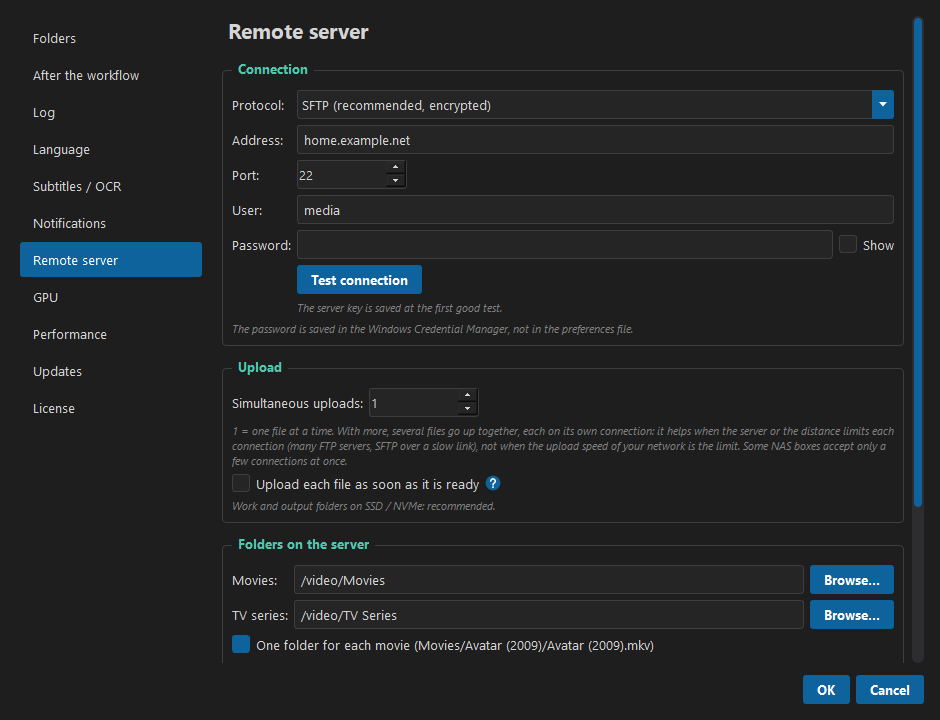
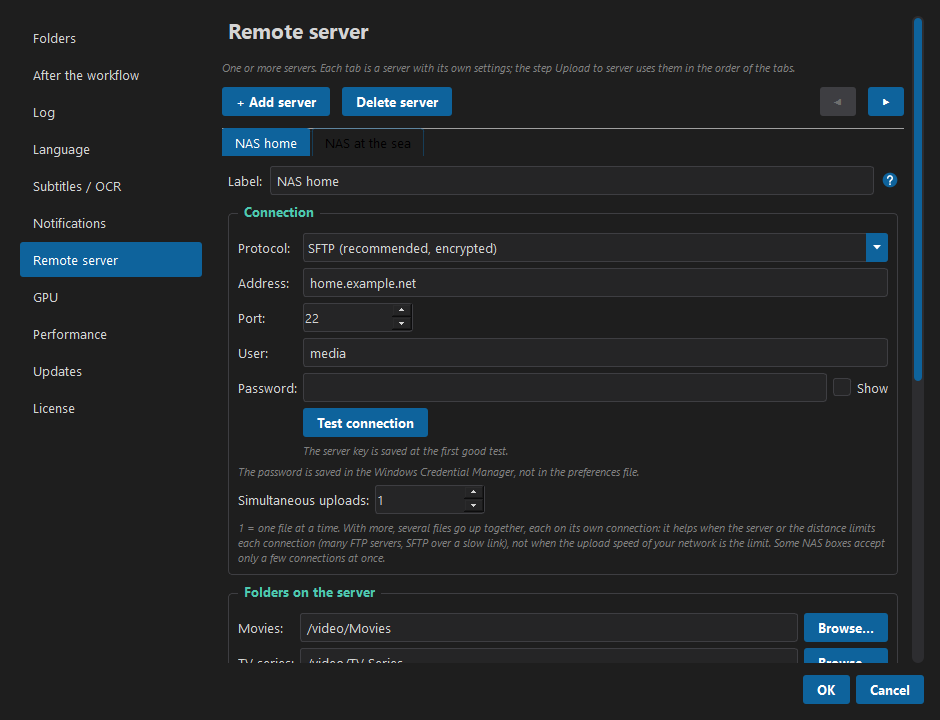
Sequentia Nexus 0.58.0

Changed region(s): [[0.216, 0.0917, 0.9872, 0.9472], [0.9255, 0.2444, 0.9564, 0.275]]

diff --git a/docs/HOW_TO_USE.md b/docs/HOW_TO_USE.md
@@ -1,6 +1,6 @@
 # How to use Sequentia Nexus
 
-This guide covers version **0.53.1**. Sequentia Nexus is in beta: some parts may still change.
+This guide covers version **0.58.0**. Sequentia Nexus is in beta: some parts may still change.
 
 **Contents**
 
@@ -76,12 +76,12 @@ A program installed here is found right away: you don't need to restart the app.
 | **Parameters** (right) | The settings of the step selected in the workflow. |
 | **Log** (bottom) | What the app is doing, live. **📋 Copy log** copies it all. |
 | **▶ Start workflow / ❚❚ Pause / ■ Stop** | Start, pause and stop the run. The bar next to them shows the progress; **When done** on the right puts the PC to sleep, hibernates it or shuts it down at the end (see [Run a workflow](#5-run-a-workflow)). |
-| **Queue** | Adds the current workflow to the queue, or shows the queue: several workflows with their own folders, run one after the other (see [The queue](#the-queue)). |
+| **Queue** | Opens the queue window: workflows with their own files to process, run after the main workflow (see [The queue](#the-queue)). |
 
 The menus:
 
 - **File**: *New workflow*, *Open preset...*, *Save preset as...*, *Delete preset...*,
-  *Queue...*, *Exit*.
+  *Queue...*, *Open queue...*, *Load all queues*, *Delete queue...*, *Exit*.
 - **Settings**: *Preferences...* (also **Ctrl+,**), *System Requirements...*, *Theme* (Dark,
   Light, System). The program starts in the language of Windows (English when it is not one of
   its languages); the language is chosen in **Preferences → Language**. That page always says
@@ -208,6 +208,7 @@ While it runs:
 - **Nothing can be changed**: the catalog, the workflow list, the parameters (shown in grey),
   the presets and the Preferences are locked, so it is clear that the run uses the settings it
   started with. The log, the theme, About, **Pause**, **Stop** and **When done** stay usable.
+- **Stop** works also while the final files are being moved to the output folder: the move stops at once, the files already moved are complete, and the others stay in the work folder (the log says where).
 - The **workflow list follows the run**: no row is highlighted; every step that is working
   right now shows a **blue arrow that turns** on its right, also two at once (for example the
   audio converted during the encode, or the movies uploaded while the TV series are processed).
@@ -288,42 +289,88 @@ step before it.
 
 ### The queue
 
-The **queue** runs several workflows one after the other, each with **its own folders**: for
-example a TV series in one folder with one preset, then a film in another folder with another
-preset, started in the evening with *When done → Shut down*.
+A **queue** is a workflow with **its own files to process**: for example the films of a download
+folder with one preset and a TV series from another disk with another preset, started in the
+evening with *When done → Shut down*. **▶ Start workflow** runs the main workflow first (the one in
+the workflow panel, when the input folders of the Preferences have files), then the ticked queues,
+one after the other. The button says what it will do: `▶ Start workflow + 2 queues`, or
+`▶ Start 2 queues` when the input folders of the Preferences are empty.
 
-- **Queue → Add current workflow** (the button next to **Stop**) adds the workflow shown now,
-  with its steps, parameters and file choices, and the folders of *Preferences → Folders* at that
-  moment (folder mode, input, work and output). Change the folders or the preset and add the next
-  job: every job keeps its own.
-- **Queue → Show queue...** (also *File → Queue...*, `Ctrl+Shift+Q`) opens the queue window: the
-  jobs in order, their input folders (the whole paths in the tooltip), their state (*Waiting*,
-  *Running*, ✓ *Done*, ✗ *With errors*, ■ *Stopped*, – *Skipped*) and their result
-  (`2 videos processed in 00:12:40`).
-  - **Drag** a job to change the order.
-  - **Folders...** (or a double click) changes the folders of that job only.
-  - **Load into workflow** shows a job in the workflow panel: change its steps or parameters, then
-    **Use current workflow** puts them back in the job (its folders stay).
-  - **Run again** puts a finished job back to waiting; **Open log** shows the log of a finished
-    job; **Remove** and **Remove finished** clean the list.
-  - **Save queue...** / **Open queue...**: a queue file (`.snxqueue`) to keep or move to another
-    PC; opening one adds its jobs at the end.
-- **▶ Start queue**: first the **checks of every waiting job**, one after the other, with the
-  usual pre-flight window for each job (its name in the title): all the questions (warnings,
-  tracks without a language) are asked now, so the queue can then run unattended. A job that does
-  not pass the checks, or that you cancel, is *Skipped*. Then the jobs run one at a time: the
-  workflow panel shows the running job, the log shows its log.
-- A job that ends **with errors** is marked ✗ and the queue goes on with the next one. Every job
-  keeps its own log in the log folder (also with *Preferences → Log* off). **Stop** stops the whole
-  queue: the jobs not started yet stay *Waiting*. **Pause** pauses the running job.
-- At the end the last line of the log sums up the queue
-  (`Queue finished: 3 jobs done, 1 with errors, in 02:10:00`); the notifications and **When done**
-  come once, for the whole queue.
-- The queue is kept when the program closes; a job that was running then is *Waiting* again.
-  Jobs added while the queue runs wait for the next start of the queue.
+The **Queue** button next to **Stop** (also *File → Queue...*, `Ctrl+Shift+Q`) opens the queue
+window. The program starts with no queue loaded.
 
-One job at a time is on purpose: a job already uses every video card (an encode on two cards) and
-the CPU (audio converted in parallel), and two jobs together would only slow each other down.
+- **+ Add new queue** adds a queue: a box that opens and closes with a click on its title, like the
+  sections of the catalog. In the box:
+  - the **tick box** next to the name: ticked, the queue runs with Start; unticked, it stays in the
+    list and waits;
+  - **Name** (optional: without one the queue is *Queue 1*, *Queue 2*...);
+  - **Workflow**: **Open preset...** copies a preset into the queue, **Create workflow...** starts a
+    new empty one, **Edit workflow...** changes the one of the queue. Both open the **workflow
+    editor**: the script catalog, the workflow and the parameters, as in the main window, with
+    **Save changes** at the bottom. In the editor the *Movies* and *TV series* boxes are always
+    there, and the lists of the steps that choose file by file (Aspect ratio per file, Sync per
+    subtitle, the rules of Correct SRT) show the files of this queue. **Save as preset...** saves
+    the workflow of the queue as a preset (the same name replaces it, a new name makes a new
+    preset);
+  - **Files**: the folders and single files to process, from any folder or disk: **Add files...**,
+    **Add folder...**, or drop them **anywhere on the queue window** (on a queue: into that queue;
+    elsewhere: into the open one). A folder means all its videos and discs, a file only that file; ×
+    takes one off. Under the list, how many videos there are (`5 videos: 2 films, 3 episodes`);
+  - **Output**: *As in the Preferences* (the output folders of *Preferences → Folders*, for films or
+    for series) or *This folder*. The work folder is always the one of the Preferences;
+  - **Upload**, only when the workflow has **Upload to server**: with several servers, the servers
+    of this queue; the **folders on the server** for the films and the series of this queue (empty:
+    the ones of the server).
+- **Films and episodes** are told apart from the name: `S01E01` or `1x01` is an episode, everything
+  else a film (a disc with `S02` in its name is a season). So a queue can mix them: each file gets
+  the *Movies* or *TV series* values of the steps (or the single box, if the preset was made with
+  one folder) and goes to the films or the series folder.
+- **Save queue** (in the box) or **Save all queues** (at the bottom) saves the queues by name, like
+  the presets, and closes their boxes. **The files to process are never saved**: they change every
+  time. A title with `*` has changes not saved yet; × in the title takes the queue off the list (its
+  saved file stays).
+- *File → Open queue...* loads a saved queue (also a `.snxqueue` file of the earlier versions: each
+  of its jobs becomes a queue, without its folders), *File → Load all queues* loads them all, *File
+  → Delete queue...* deletes a saved one.
+- **Drag** a queue by its title to change the order.
+- At the start come the **checks of everything**: the main workflow, then every ticked queue, with
+  the usual pre-flight window (its name in the title). All the questions are asked now, so
+  everything can then run unattended. A queue that does not pass the checks, or that you cancel, is
+  skipped. Then they run one at a time: the workflow panel shows the one running and the log its
+  log; at the end the main workflow comes back in the panel.
+- The title of each queue shows its state like the workflow list: the turning arrow while it runs,
+  then ✓, ✗ (with errors), ■ (stopped) or – (skipped), with the result (`2 films processed in
+  00:12:40`) and **Open log**. A queue that is running or waiting to run cannot be changed.
+- A queue that ends **with errors** does not stop the others. Each keeps its own log in the log
+  folder (also with *Preferences → Log* off). **Stop** stops everything: the queues not started yet
+  are marked *not started*. **Pause** pauses the one running.
+- At the end the last line of the log sums everything up (`Everything finished: 3 workflows done, 1
+  with errors, in 02:10:00`); the notifications and **When done** come once, for everything.
+
+**A queue and its preset are two separate things.** The queue keeps its own copy of the workflow,
+and the line under its steps always says which one it is: *Copy of the preset "Movies 1080p"* while
+nothing was changed, *Changed copy of the preset "Movies 1080p"* after **Edit workflow...**
+(the **?** next to *Workflow* explains it too). An example:
+
+1. **Open preset...** → *Movies 1080p* (films at 4000 kbit/s): the queue gets a copy of it.
+2. **Edit workflow...**: the bitrate of the films goes to 6000, then **Save changes**. The line now says *Changed copy*.
+3. **Save queue**: the queue remembers 6000; opened again next week, it still has 6000.
+4. *Movies 1080p* opened in the main window, or in another queue, still has 4000: the preset file was not touched.
+5. To have 6000 in the preset too: **Save as preset...** with the same name (it is replaced) or with a new name (a new preset).
+
+![The Queue window](images/queue.png)
+
+![The workflow editor of a queue](images/queue_editor.png)
+
+**Files added later.** When a step has choices made file by file (Aspect ratio per file, Sync per
+subtitle, a rule of Correct SRT on some subtitles) and files are added to the queue after those
+choices, the program asks to make the choices for the new files too: **Make the choices...** opens
+the workflow editor, **Later** leaves it for now. At the start it asks again for the files still
+without choices: **Go on like this** (the new files get the common value of the step, or stay out
+of a step where only some files were chosen) or **Skip this queue**.
+
+One workflow at a time is on purpose: one already uses every video card (an encode on two cards)
+and the CPU (audio converted in parallel), and two together would only slow each other down.
 
 ### Where the files end up
 
@@ -490,6 +537,8 @@ has **Convert image subtitles to SRT**.
 
 > AAC audio is saved as `.mka`, not as a raw `.aac`: some AAC 5.1 tracks lose their channel
 > layout in a raw file and become silent after merging.
+
+> Converted audio keeps its exact timing. Every encoder adds a few milliseconds at the start of the track (AAC 21 ms, MP3 up to 47 ms, AC3 and E-AC3 5 ms, DTS 11 ms): AAC and MP3 are saved as `.mka`, which tells the player to skip them, and for AC3, E-AC3 and DTS the same amount is taken off the start, so every sound stays on its frame.
 
 ### Audio
 
@@ -856,18 +905,16 @@ the encode if *Upload each file as soon as it is ready* is on in
   `1x01` in the name means an episode);
 - every file is uploaded as `name.mkv.part` and renamed only when it is complete, so a media
   server (Plex, Jellyfin...) never sees half a film;
-- if the connection drops, the upload is tried again and goes on from where it stopped. A
-  `.part` left by a stopped workflow is resumed the next time;
+- every attempt after a dropped connection sends the film again from the beginning;
 - at the end the size on the server is checked.
 
-If a file cannot be uploaded, the workflow ends with errors and the original videos are
-**not** deleted, even if *Delete the original videos* is on.
+**Several servers.** The step uploads to every server of [Preferences → Remote server](#remote-server) (with more than one, the boxes **Servers** choose which ones for this workflow), one after the other or all at the same time. A server that does not answer after the attempts is left (the others go on) and gets one last attempt at the end. If even that fails, the final files stay on this PC, the original videos and the work files are deleted as usual (the films are done), and a window says which server had the problem: **Continue upload** sends the missing films when the server is back, **Later** asks again at the next start of the program, **Give up** forgets them. The same window opens from **Tools → Uploads to finish**.
 
 | Setting | |
 |---|---|
 | If the file is already on the server | **Replace** (the old file is replaced only when the new one is complete) or **Skip**. |
-| Delete the local files after the upload | Off by default. After a good upload the final file is deleted from this PC, handy on a laptop. A file that was not uploaded is never deleted. |
-| *Attempts if the connection drops* | *Advanced*, default 5, waiting longer each time (5 s, 15 s, 30 s, 1 min, 2 min). |
+| Delete the local files after the upload | Off by default. A final file is deleted from this PC only when it is on every server that should get it, handy on a laptop. A file missing on even one server is never deleted. |
+| Servers | Only with several servers in Preferences: which ones get the files of this workflow (all ticked by default; a server added later is ticked by itself). |
 
 The time an upload takes depends on the upload speed of the network you are on: on a mobile
 connection or a hotel Wi-Fi a 5 GB film can take more than an hour. The log shows the speed of
@@ -890,21 +937,14 @@ Special jobs, outside the usual flow of a workflow.
 
 #### Transfer audio and subtitles
 
-Puts the audio and the subtitles of one version of a film (the **source**: a DVD, a 720p, a TV
-recording...) onto another version of the same film (the **target**: the 1080p, the 4K...): for
-example the dubbed language of an old DVD or of a 720p onto a 1080p that has only the original
-language. The step has its own two folders: **Source videos** (video files of any quality, `.iso`
-files or `VIDEO_TS` folders; from a DVD the main film is taken) and **Target videos**. The target
-folder must be another folder than the input folder.
+Puts the audio and the subtitles of one version of a film (the **source**: a DVD, a 720p, a TV recording...) onto another version of the same film (the **target**: the 1080p, the 4K...): for example the dubbed language of an old DVD or of a 720p onto a 1080p that has only the original language.
 
 - **Discs**: a source or a target can also be a DVD or a Blu-ray, as an `.iso` file or a
   `VIDEO_TS` / `BDMV` folder: the main film is taken, as in *Read DVD and Blu-ray*. From a target
   disc the step makes an MKV named after the disc, without re-encoding, and the next steps work on
   it: the work folder needs room for the whole film (about 25-50 GB for a Blu-ray).
   A disc without a name of its own (a folder called `1080p`) takes the name of its source.
-- **Pairs**: each target video gets the source with the same title and year. The check before
-  the start shows the pairs; each one can be changed, and a target video without a source is left
-  out.
+- **Videos to pair**: *I choose the files* (default): one box per film with the **source** and the **target** video, chosen with **...** or dropped from Explorer, also in different folders; **+ Add film** adds another one, **↔** swaps source and target, **×** removes the film. The window shows videos (MKV, MP4, AVI, MOV, TS, M2TS), `.iso` files and, for a disc in a folder, its `VIDEO_TS.IFO` (DVD) or `index.bdmv` (Blu-ray). Under each file a line tells its duration, picture and languages, so a wrong film is seen at once. The films are not saved in the presets. The check before the start stops on a missing file, the same video as source and target, a target used twice or a target in the input folder. *Two folders (TV series)*: **Source videos** and **Target videos**, paired by title and year, handy for a whole season; the check before the start shows the pairs, each can be changed, and a target video without a source is left out. The target folder must be another folder than the input folder.
 - **Everything is found by comparing the two audio tracks**: music and effects are the same even
   when the languages differ. Speed (a PAL source runs 4 % faster: 25 frames per second instead of
   23.976; also 24 / 23.976), delay, and cuts: where the two versions differ (a scene more in the
@@ -921,9 +961,7 @@ folder must be another folder than the input folder.
   file.
 - **Pitch of the voices**: *Like the film* (default) brings back the natural voices of a PAL
   source; *Like the source* only fixes the length.
-- **Keep the original audio of the target** (on): it stays as an extra track, not the default.
-  The original is the track flagged as original or, when none is, the language the target shares
-  with the source (an Italian DVD and a Russian Blu-ray both have English).
+- **Keep the original audio of the target** (on): it stays as an extra track, not the default. The original, which is also the track compared with the source, is the track flagged or titled as original; else English, then French, German, Spanish, Portuguese; else the first track of the file. Commentaries, dubs and voice-overs (from the track title: "Dubbing", "MVO"...) are left out while there is another track: a Russian release often starts with a Russian voice-over. **Anime or Asian film** (off): when on, Japanese, Chinese and Korean come before that list (an anime often has the English dub as its first track).
 - **Scenes only in the target** (*Original language with subtitles*): for an extended version with
   scenes the dub does not have. *Original language with subtitles* keeps the extended version whole:
   those scenes play the original audio, and the subtitles of the target in the subtitle language (if
@@ -938,6 +976,7 @@ folder must be another folder than the input folder.
 - **Fade at the cuts** (with *Cut the scenes*, *Automatic*): a short fade to black and back, of
   picture and sound, only where there is no shot change near the cut (a dialogue shortened inside the
   same shot); *Always* or *Never*. The log tells, for every cut, where it is and how it was made.
+- **Review cuts** (with *Fade at the cuts* set to *I choose after the workflow*): no fade is made during the workflow; at the end the log says which films have cuts to review, and **Tools → Review cuts** lists every cut: where it is, how long the scene taken out was and whether it fell on a shot change. A preview plays the seconds around the cut without or with the fade, and the advised fades are already ticked. **Apply fades** adds the ticked fades to the final file, encoding again only the seconds around each cut (the AC3 / E-AC3 sound only around the cut, FLAC without loss). It works with H.264 videos. The cuts made with the other choices are listed too, so a fade can still be added where there was none.
 - The files get the names of the target videos, so **Audio settings**, the **OCR**, **Correct SRT
   files** and **Merge** / **Encode** work on them together with the normal videos of the input
   folder. The step comes after *Extract audio and subtitles*.
@@ -1098,7 +1137,7 @@ Both are off by default.
 
 ![Preferences: remote server](images/prefs_remote.png)
 
-The server used by the **Upload to server** step.
+The servers used by the **Upload to server** step, one tab each. **+ Add server** adds one, **Delete server** removes it (and its saved password), ◀ ▶ change the order (with *One after the other* the first goes first). **Label** (optional): a name to recognise it, such as "NAS home" or "NAS at the sea"; two servers cannot have the same label, and without one a server is called "server 2" after its place. An empty movies or series folder means that this server does not get those files. The single server of an older version becomes the first tab by itself.
 
 **Connection**
 
@@ -1122,12 +1161,14 @@ internet.
 
 **Upload**
 
+- **With several servers**: **One after the other** (default: the first server gets every file, then the second starts, and so on) or **All at the same time** (every server at once, for a fast upload). A server that does not answer is left after the attempts and gets one last attempt at the end; see [Upload to server](#upload-to-server).
+- **Attempts for a file** (default 5): how many times a file is tried again when the connection drops or the server does not answer, waiting longer each time (5 s, 15 s, 30 s, 1 min, 2 min); each attempt sends the film from the beginning.
 - **Simultaneous uploads** (1 to 5, default 1): how many files go up at the same time, each on
   its own connection. It helps when each connection is limited by the server (many FTP servers
   do it) or by the distance (SFTP over a slow link); it does not help when the limit is the
   upload speed of the network you are on, because the files then share it. Some NAS boxes
   accept only a few connections at once: when the server refuses one, the log says so and
-  that file tries again as soon as another one is finished.
+  that file tries again as soon as another one is finished. Each server has its own value, in its tab.
 - **Upload each file as soon as it is ready** (off by default): the upload starts together with
   *Encode video + mux* (or *Merge without re-encoding*): each file goes up as soon as it is
   finished, while the others are still being encoded. With a series, when the last episode is
@@ -1303,7 +1344,7 @@ On Windows, in `%APPDATA%\SequentiaNexus\`:
 | `requirements.json` | The last requirements check |
 | `license.json` | The license activated on this PC (the activation is protected by Windows) |
 | `steps\` | The steps received from the license server, encrypted |
-| `queue.json` | The queue of jobs |
+| `queues\` | The saved queues |
 | `guide\` | The user guide downloaded from the site |
 
 Deleting the app folder does not remove this folder: delete it by hand if you want a clean

diff --git a/README.md b/README.md
@@ -10,7 +10,7 @@
 </p>
 
 <p align="center">
-  <img alt="Version" src="https://img.shields.io/badge/version-0.53.1-0e639c">
+  <img alt="Version" src="https://img.shields.io/badge/version-0.58.0-0e639c">
   <img alt="Platform" src="https://img.shields.io/badge/platform-Windows%2010%20%7C%2011-0e639c">
   <img alt="Status" src="https://img.shields.io/badge/status-beta-d08a1e">
 </p>
@@ -36,9 +36,10 @@ every video in a folder. The result is a clean MKV with the audio and subtitles 
   their `.iso` or folder): for example a dubbed language onto
   a film that has only the original one. Speed (PAL), delay and different cuts are found by
   comparing the two audio tracks; subtitles follow as text or as pictures (DVD, Blu-ray), in more
-  languages if wanted; versions paired by title and year. An **extended version** keeps its extra
+  languages if wanted; you choose the source and the target file of each film (or two folders paired by title and year, for a TV series). An **extended version** keeps its extra
   scenes in the original language with subtitles, or gets them cut to rebuild the shorter version:
-  cuts on shot changes, a fade where needed, only a few seconds encoded again.
+  cuts on shot changes, a fade where needed, only a few seconds encoded again; **Review cuts**
+  shows each cut with and without the fade and adds the fades you choose afterwards.
 - **File information**: what a video contains (tracks, languages, HDR, 3D, fonts) and what your
   workflow will do with it, before you start; drag a video onto the window to see it.
 - **Extract** the best audio track and all subtitles in your language, sorted into
@@ -71,8 +72,10 @@ every video in a folder. The result is a clean MKV with the audio and subtitles 
   stay in the final file; an episode that lacks one borrows it from the other episodes.
 - **Change the aspect ratio** of the final files without re-encoding.
 - **Upload the finished files to your NAS** (SFTP, FTPS or FTP), also from outside home,
-  into the movies and series folders, with resume if the connection drops: several files at
-  once, and each file as soon as it is ready, while the others are still encoding.
+  into the movies and series folders: to one or more servers (NAS home, NAS at the sea...),
+  one after the other or all together, several files at once, and each file as soon as it is
+  ready, while the others are still encoding. A server that does not answer keeps its files
+  for *Continue upload*.
 - **Movies and TV series** can have separate folders and separate settings: one workflow,
   two passes.
 - **Pause and resume** a run, see the **time left** and the encode speed, put the PC to
@@ -80,8 +83,10 @@ every video in a folder. The result is a clean MKV with the audio and subtitles 
   stays usable.
 - **Updates**: the program tells you when a new version is out and downloads it for you
   (nothing installs by itself).
-- **Queue**: several workflows, each with its own folders, run one after the other; all the
-  checks are done at the start, then it runs unattended, every job with its own log.
+- **Queues**: workflows with their own files to process (folders or single files from anywhere,
+  dropped on the window; films and episodes told apart from the name), each with its own copy of
+  a preset changed in a workflow editor (the preset file changes only when you save it), saved by
+  name and run after the main workflow; all the checks at the start, then unattended.
 - **Guide in 11 languages**, inside the program (Help → Documentation, F1: chapters, search,
   always up to date from the site) and at
   **[sequentianexus.com/guide](https://sequentianexus.com/guide/)**.
